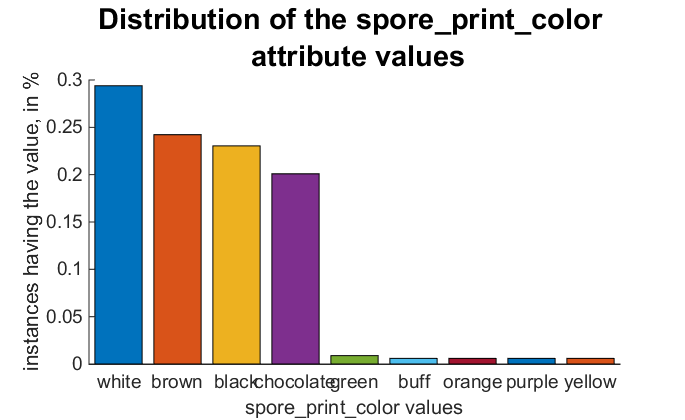
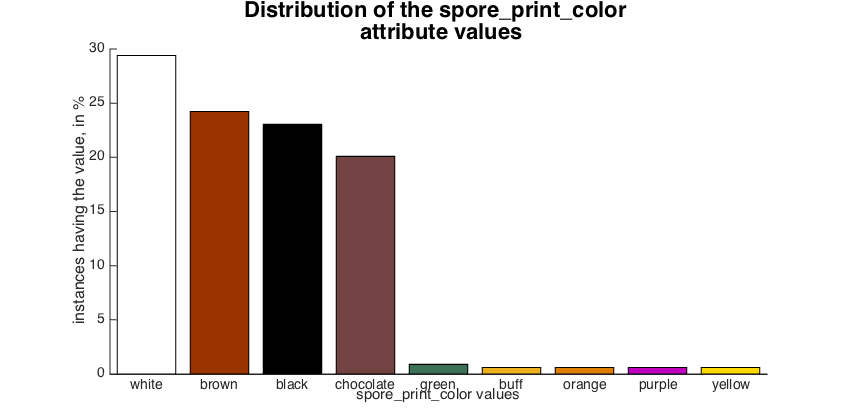
Changed the colours accordingly, they didn't match before. Changed the numbers to be displayed in percentages (done by Adrien). No overlap of the writing anymore (as well done by Adrien)

diff --git a/simpleDescriptionGraphGenerator.m b/simpleDescriptionGraphGenerator.m
@@ -16,7 +16,7 @@ function [barInput,plotHandle,stDev] = simpleDescriptionGraphGenerator(index,Dat
 
 
 barInput=attributes_counter(index,Data,Attributes);%creates the inventory of instances per value
-barInput=barInput/(1.0*size(Data,1));%percentages are great
+barInput=barInput/(1.0*size(Data,1))*100;%percentages are great
 stDev=std(barInput);%standard deviation
 
 %open a window with title AttributesTypes{index} to put our histogram in
@@ -29,7 +29,7 @@ plotHandle=cell(numel(Attributes{index}),1);%to stock all our different Handle
 for i=1:numel(Attributes{index})
      plotHandle{i}=bar([i], barInputSorted(i),'FaceColor',lineColorMap(i,:));
 end
-f.Position=[f.Position(1),f.Position(2),f.Position(3)+125,f.Position(4)];%resize fig
+f.Position=[f.Position(1),f.Position(2),f.Position(3)+200,f.Position(4)];%resize fig
 %% MAKING THINGS PRETTY WITH UGLY CODE
 
 %For underscores to be displayed as underscores
